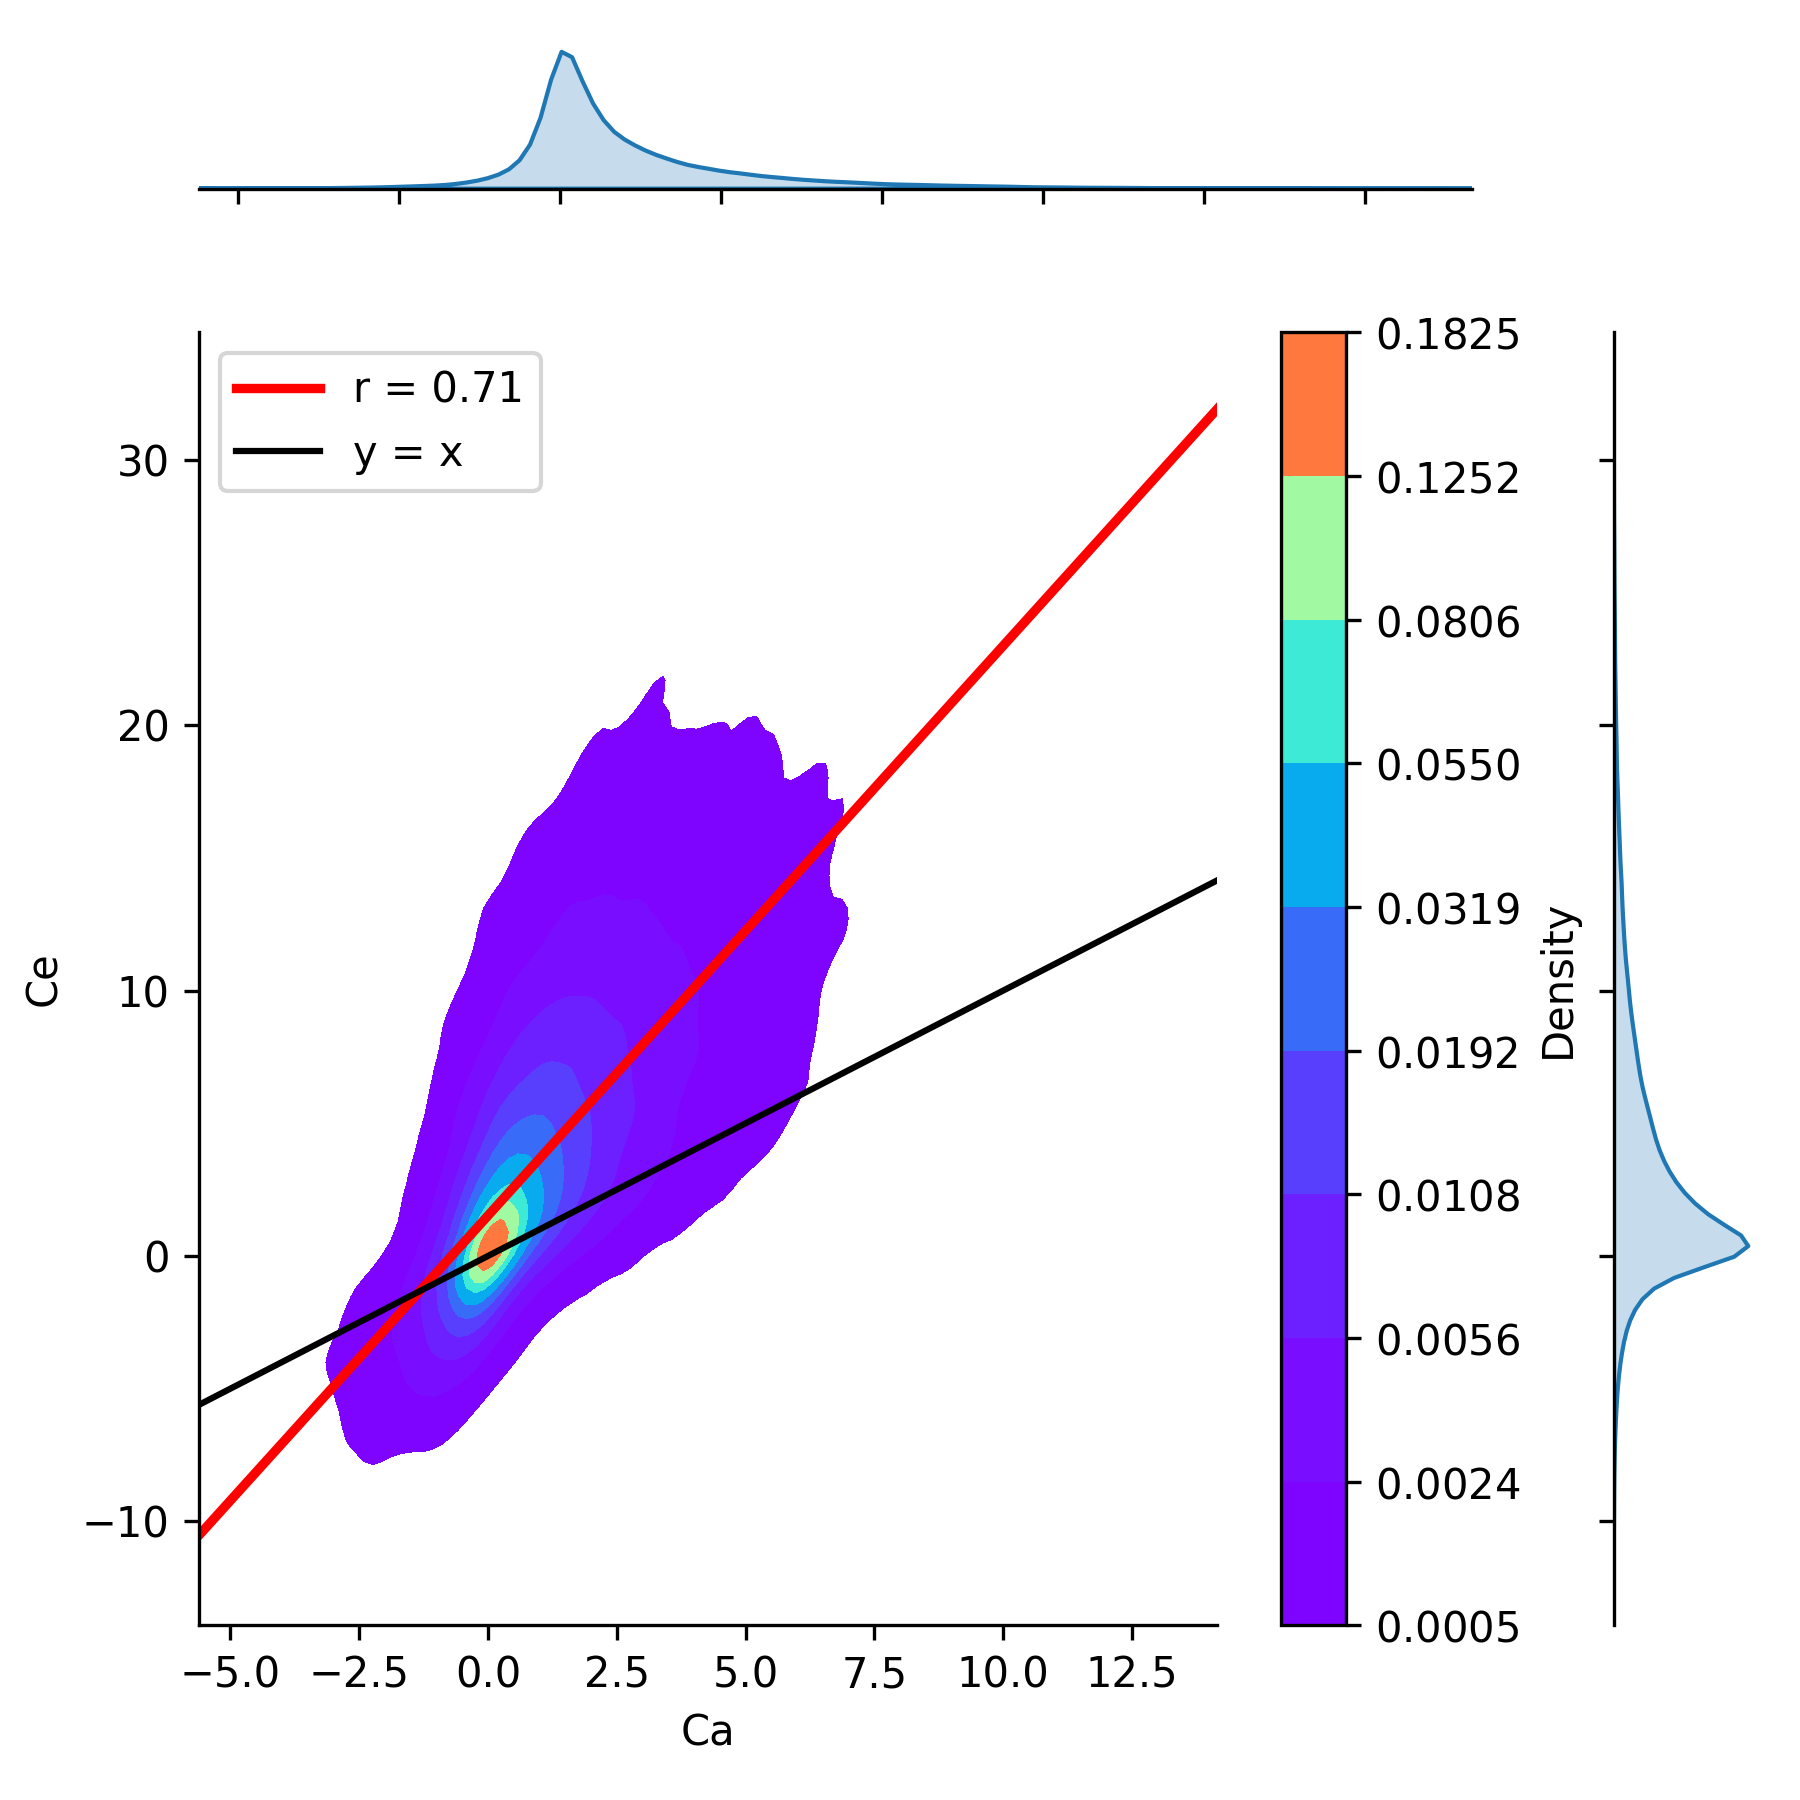
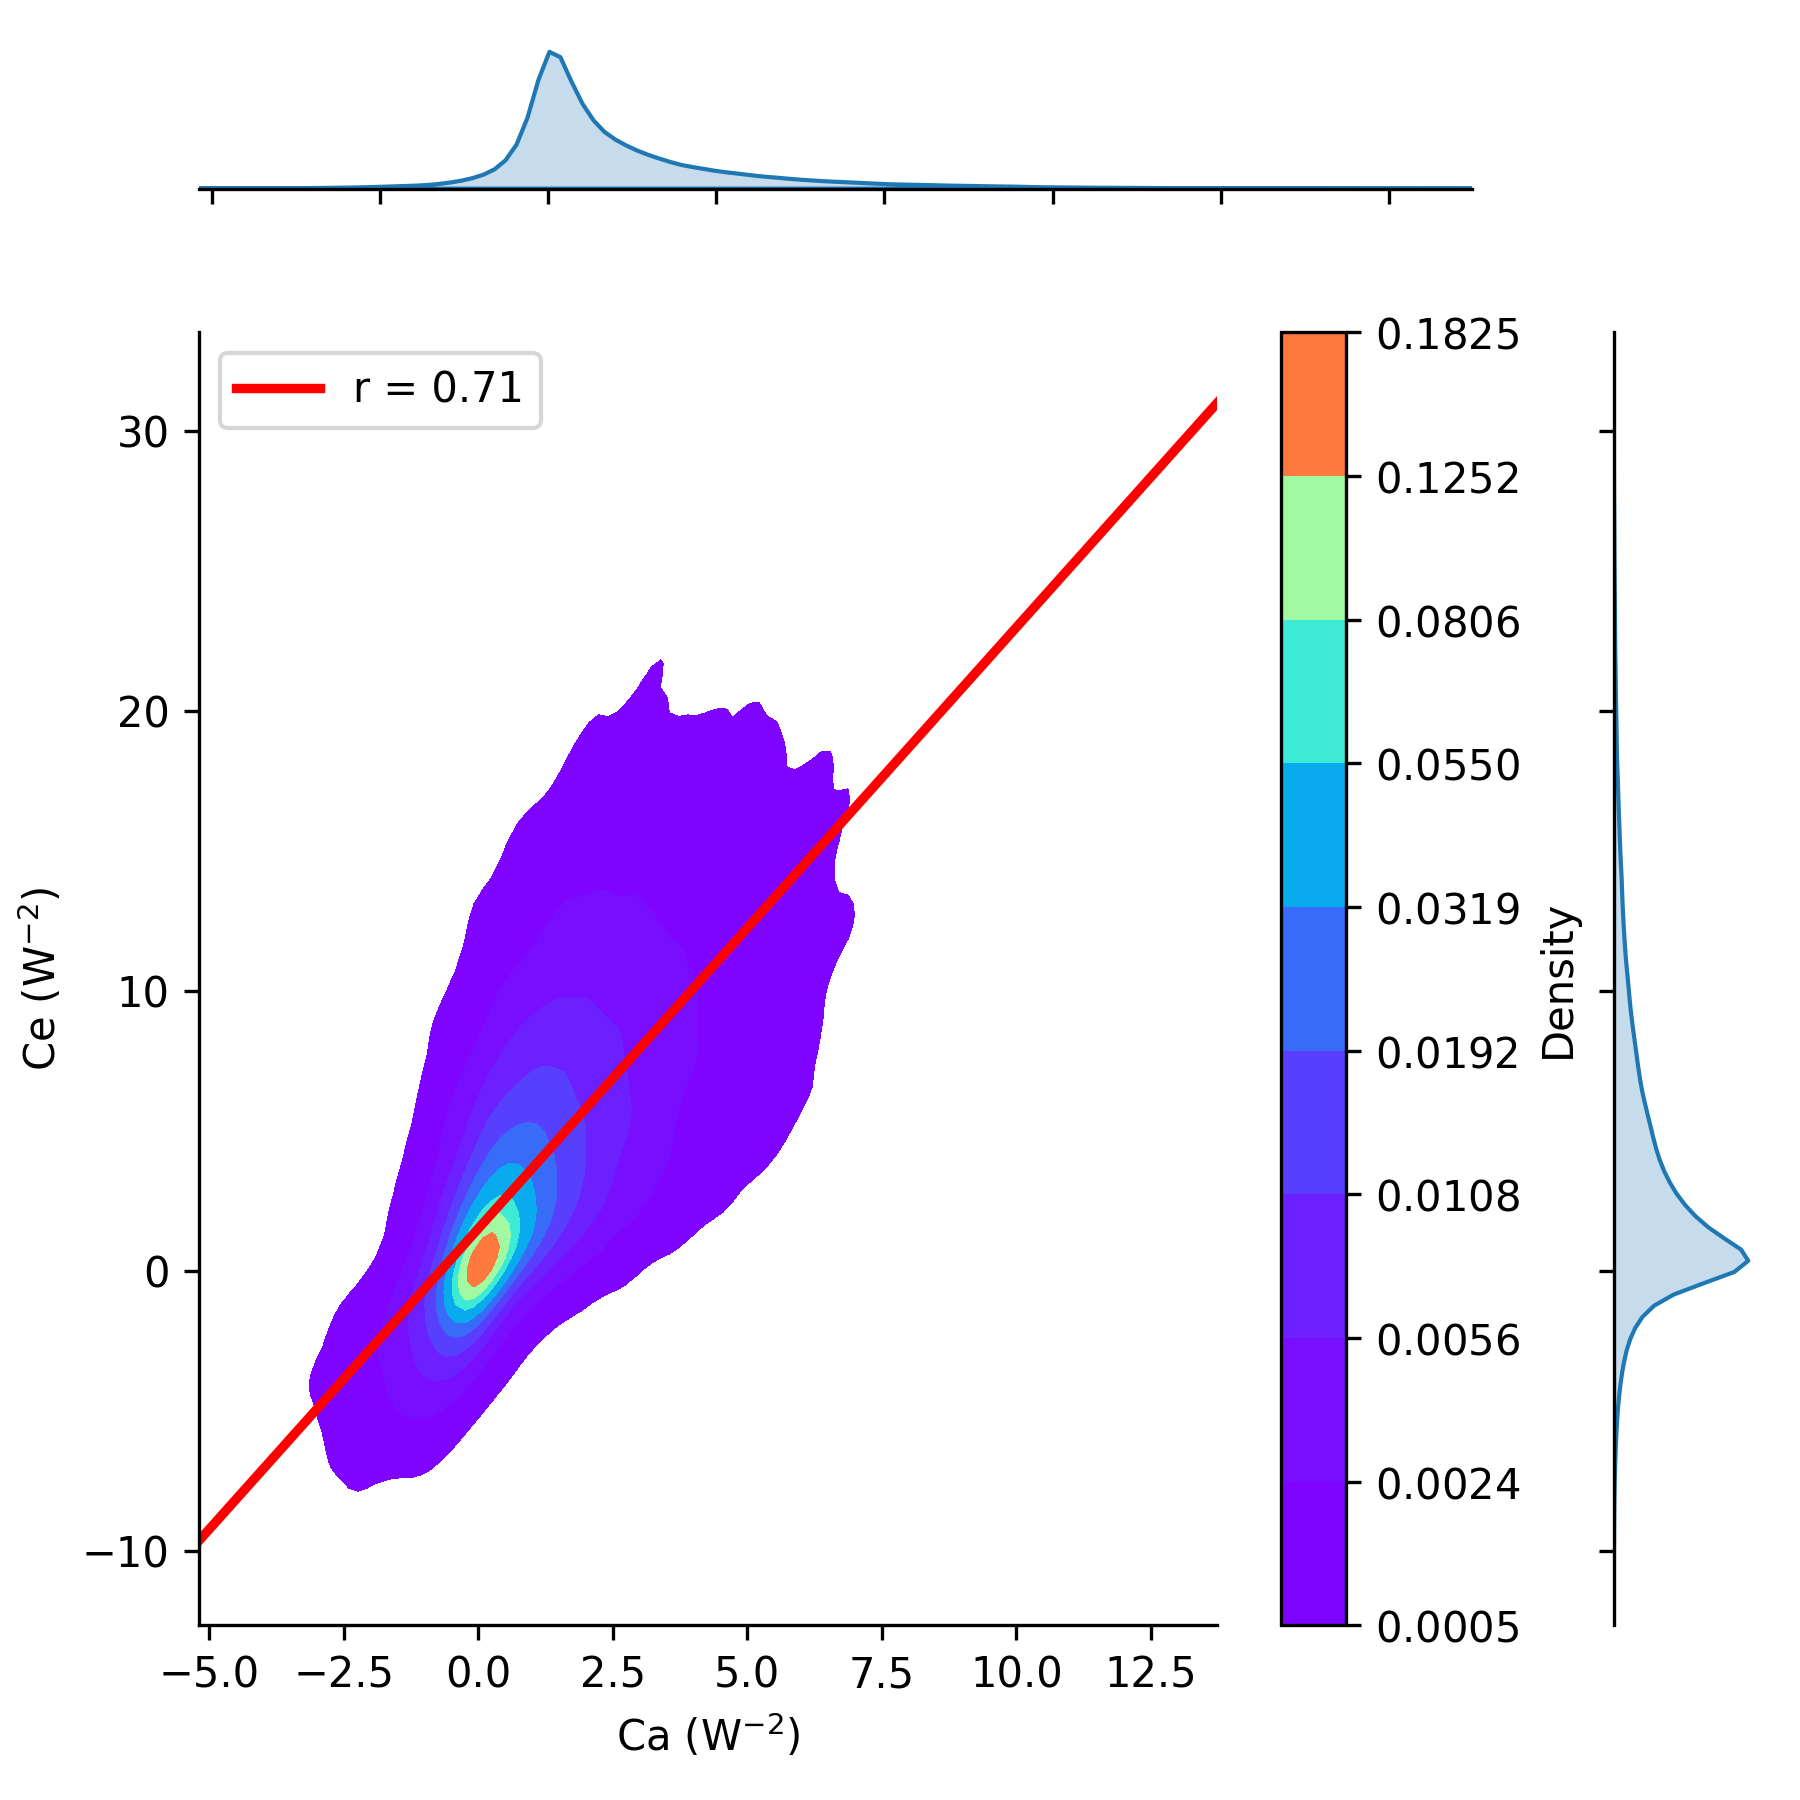
results for correlation updated

diff --git a/src_chapter_6/correlation_terms.py b/src_chapter_6/correlation_terms.py
@@ -15,70 +15,80 @@ directory_path = '../results_chapter_5/database_tracks/'
 # Function to read and process each CSV file
 def process_file(file_path):
     data = pd.read_csv(file_path)
-    if 'Ca' in data.columns and 'Ce' in data.columns:
-        ca_values = pd.to_numeric(data['Ca'], errors='coerce').dropna().values
-        ce_values = pd.to_numeric(data['Ce'], errors='coerce').dropna().values
-        return ca_values, ce_values
-    return [], []
+    ca_values = pd.to_numeric(data['Ca'], errors='coerce').dropna().values if 'Ca' in data.columns else []
+    ce_values = pd.to_numeric(data['Ce'], errors='coerce').dropna().values if 'Ce' in data.columns else []
+    ke_values = pd.to_numeric(data['Ke'], errors='coerce').dropna().values if 'Ke' in data.columns else []
+    vor42_values = pd.to_numeric(data['vor 42'], errors='coerce').dropna().values if 'vor 42' in data.columns else []
+    return ca_values, ce_values, ke_values, vor42_values
 
-def main():
-    # Initialize lists to store values
-    Ca_values = []
-    Ce_values = []
-
-    # Use ProcessPoolExecutor to parallelize file processing with a progress bar
-    csv_files = glob.glob(os.path.join(directory_path, '*.csv'))
+# Function to parallelize file processing
+def parallel_file_processing(file_paths):
     with ProcessPoolExecutor() as executor:
-        results = list(tqdm(executor.map(process_file, csv_files), total=len(csv_files)))
+        results = list(tqdm(executor.map(process_file, file_paths), total=len(file_paths)))
+    return results
 
-    # Collect results
-    for ca_values, ce_values in results:
+# Function to merge processed data
+def merge_processed_data(results):
+    Ca_values, Ce_values, Ke_values, Vor42_values = [], [], [], []
+    for ca_values, ce_values, ke_values, vor42_values in results:
         Ca_values.extend(ca_values)
         Ce_values.extend(ce_values)
+        Ke_values.extend(ke_values)
+        Vor42_values.extend(vor42_values)
+    return (np.array(Ca_values), np.array(Ce_values), np.array(Ke_values) / 1e6, np.array(Vor42_values))
 
-    # Convert lists to numpy arrays
-    Ca_values = np.array(Ca_values)
-    Ce_values = np.array(Ce_values)
+# Function to calculate Pearson correlation
+def calculate_pearson_correlation(dataframe):
+    return dataframe.corr().iloc[0, 1]
 
-    # Create a DataFrame with the combined data
-    combined_data = pd.DataFrame({'Ca': Ca_values, 'Ce': Ce_values})
-
-    # Calculate Pearson correlation coefficient
-    pearson_corr = combined_data.corr().iloc[0, 1]
-
+# Function to create and save joint plots
+def create_jointplot(x, y, data, x_label, y_label, xlim, ylim, filename, regression=True, density_label='Density'):
     pr = lambda a, b: stats.pearsonr(a, b)[0]
-
     formatter = tkr.ScalarFormatter(useMathText=True)
     formatter.set_scientific(True)
     formatter.set_powerlimits((-2, 2))
 
-    # Create the correlation plot using Seaborn
-    g = sns.jointplot(x='Ca', y='Ce', data=combined_data, kind='kde', fill=True, cmap="rainbow", space=1, cbar=True,
-                      n_levels=10, cbar_kws={"format": formatter, "label": 'Density'},
+    g = sns.jointplot(x=x, y=y, data=data, kind='kde', fill=True, cmap="rainbow", space=1, cbar=True,
+                      n_levels=10, cbar_kws={"format": formatter, "label": density_label}, 
                       stat_func=pr, annot_kws={'stat':'pearsonr'})
-    
-    # Set axis limits
-    x0, x1 = g.ax_joint.get_xlim()
-    y0, y1 = g.ax_joint.get_ylim()
-    g.ax_joint.set_xlim([x0 * 0.6, x1 * 0.6])
-    g.ax_joint.set_ylim([y0 * 0.6, y1 * 0.6])
 
-    # Add a regression line
-    sns.regplot(x='Ca', y='Ce', data=combined_data, ax=g.ax_joint, scatter=False, color='r', label=f'r = {pearson_corr:.2f}')
+    if regression:
+        sns.regplot(x=x, y=y, data=data, ax=g.ax_joint, scatter=False, color='r', label=f'r = {calculate_pearson_correlation(data):.2f}')
+        g.ax_joint.legend(loc='best')
 
+    g.ax_joint.set_xlim(xlim)
+    g.ax_joint.set_ylim(ylim)
+    g.ax_joint.set_xlabel(x_label)
+    g.ax_joint.set_ylabel(y_label)
 
-    # Add a line x=y
-    lims = [max(x0, y0), min(x1, y1)]
-    g.ax_joint.plot(lims, lims, '-k', label='y = x')
+    plt.savefig(f"{filename}.png", dpi=300)
+    print(f"Saved {filename}.png")
 
-    # Add a legend
-    g.ax_joint.legend(loc='best')
+# Main function
+def main():
+    # Fetch CSV files
+    csv_files = glob.glob(os.path.join(directory_path, '*.csv'))
 
+    # Process files in parallel
+    results = parallel_file_processing(csv_files)
 
+    # Merge processed data
+    Ca_values, Ce_values, Ke_values, Vor42_values = merge_processed_data(results)
 
-    fname = '../figures_chapter_6/correlation_ca_ce'
-    plt.savefig(f"{fname}.png", dpi=300)
-    print(f"Saved {fname}.png")
+    # Create DataFrames with the combined data
+    combined_data_ca_ce = pd.DataFrame({'Ca': Ca_values, 'Ce': Ce_values})
+    combined_data_ke_vor42 = pd.DataFrame({'Ke': Ke_values, 'vor42': Vor42_values})
+
+    # Create and save joint plots
+    create_jointplot('Ca', 'Ce', combined_data_ca_ce, 'Ca (W$^{-2}$)', 'Ce (W$^{-2}$)', 
+                     [combined_data_ca_ce['Ca'].min() * 0.6, combined_data_ca_ce['Ca'].max() * 0.6], 
+                     [combined_data_ca_ce['Ce'].min() * 0.6, combined_data_ca_ce['Ce'].max() * 0.6], 
+                     '../figures_chapter_6/correlation_ca_ce')
+
+    create_jointplot('Ke', 'vor42', combined_data_ke_vor42, 'Eddy Kinetic Energy ($10^6$ J m$^{-2}$)', 'Relative Vorticity ($10^{-5}$ s$^{-1}$)', 
+                     [0, combined_data_ke_vor42['Ke'].max() * 0.5], 
+                     [combined_data_ke_vor42['vor42'].min(), combined_data_ke_vor42['vor42'].max() * 0.8], 
+                     '../figures_chapter_6/correlation_ke_vor42')
 
 if __name__ == '__main__':
     main()
